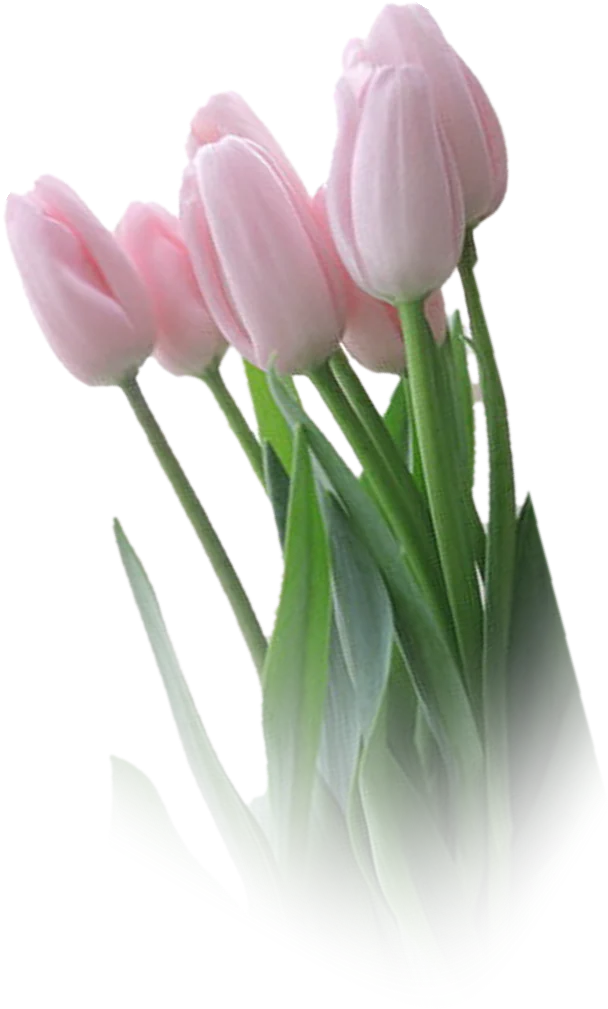
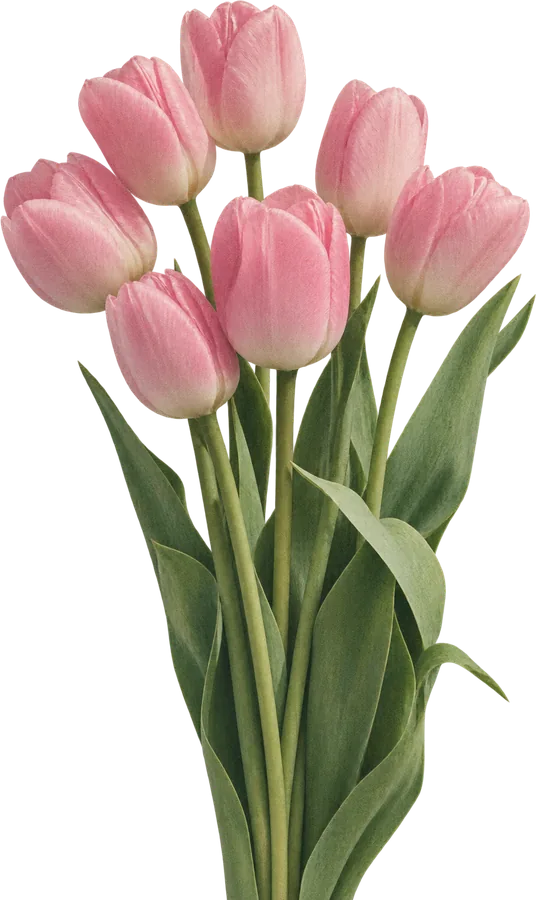
ホームのチューリップを新しい画像に差し替え、MOODの背景に夕暮れの海を追加
- 青・ピンクのチューリップを余白を詰めてwebp化、左右に同じ大きさで配置
- assets/mood-bg.webp（夕暮れの海）を数直線の裏にうっすら表示

Claude-Session: https://claude.ai/code/session_018yKzZjgsLH8TULKU6PGsEe

diff --git a/css/style.css b/css/style.css
@@ -55,8 +55,8 @@ img { max-width: 100%; display: block; }
 .flower { position: absolute; pointer-events: none; height: auto; z-index: 1;
   -webkit-mask-image: linear-gradient(to bottom, #000 0%, #000 62%, transparent 97%);
   mask-image: linear-gradient(to bottom, #000 0%, #000 62%, transparent 97%); }
-.flower.blue { left: -21.5%; bottom: 0; width: 64%; }
-.flower.pink { right: -14%; bottom: 0; width: 49%; }
+.flower.blue { left: -13%; bottom: 0; width: 50%; }
+.flower.pink { right: -13%; bottom: 0; width: 50%; }
 .home .banner { align-self: stretch; }
 .hero-pin.on { margin-bottom: -32vh; }
 .hero-pin.on > .home { position: sticky; will-change: opacity, transform; backface-visibility: hidden; }
